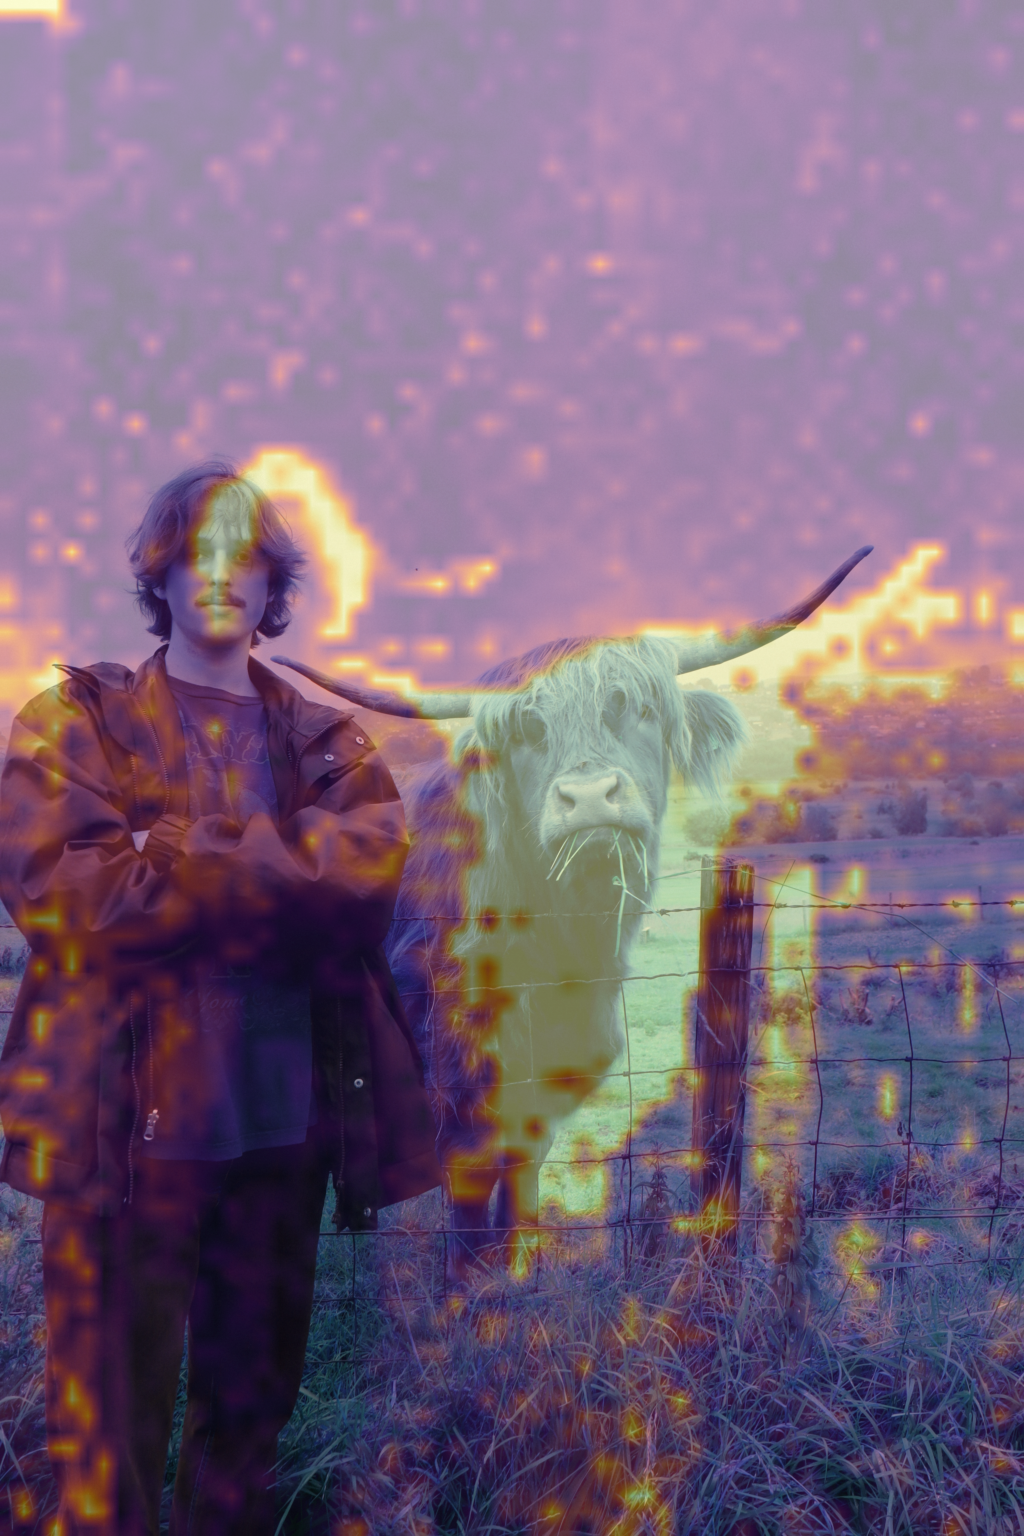
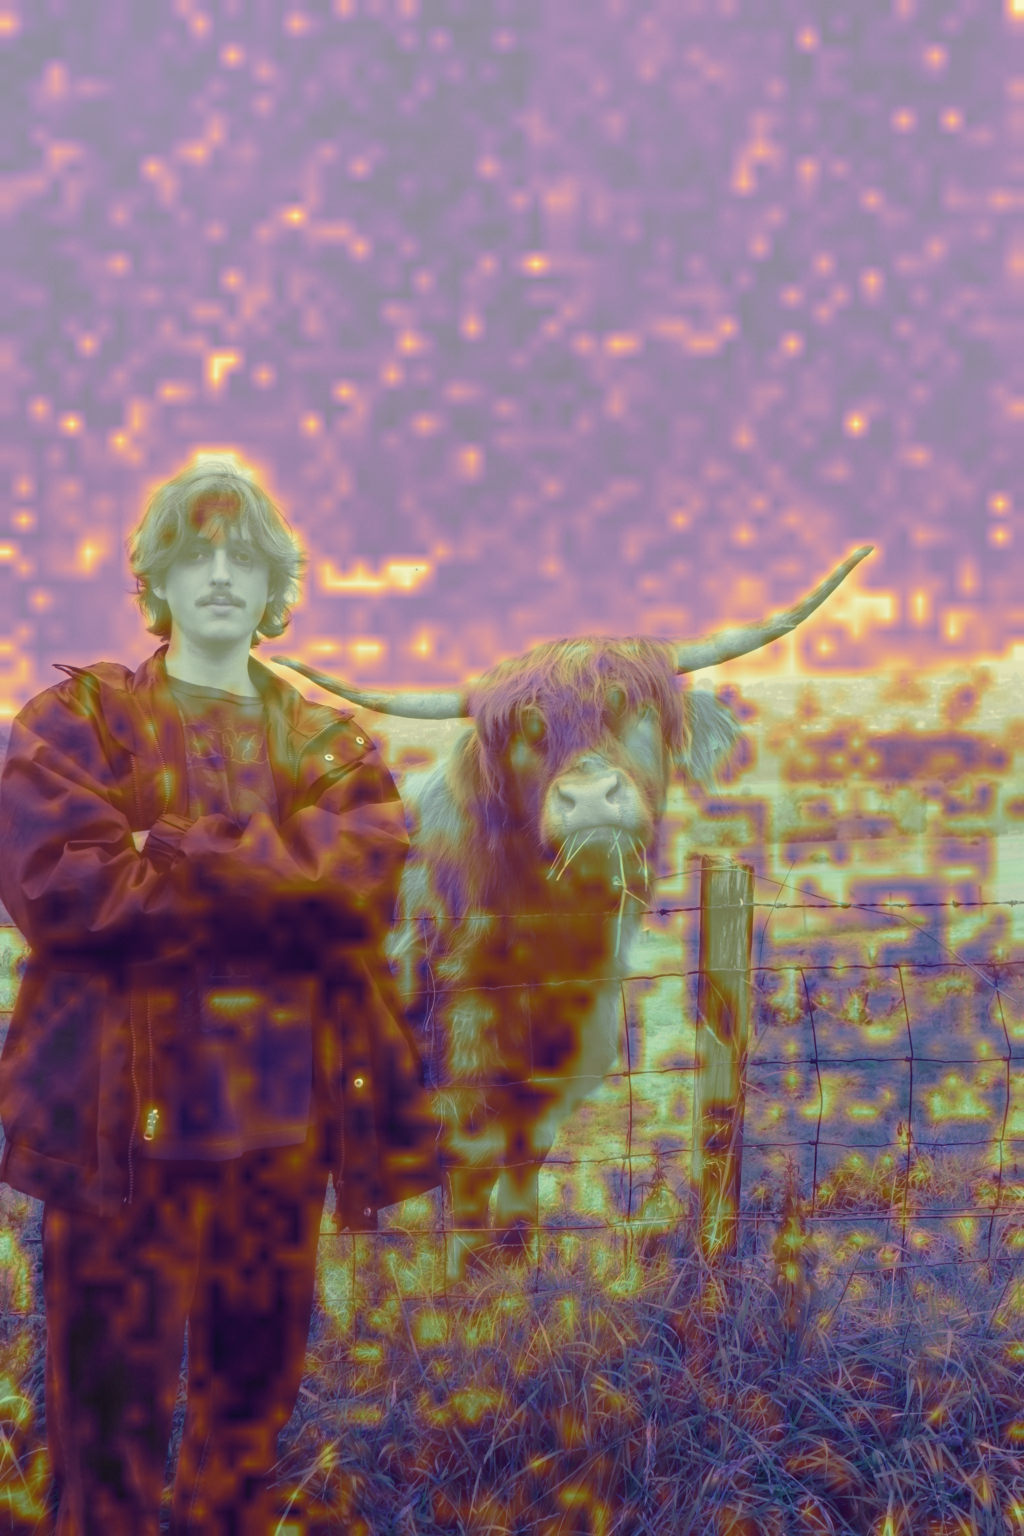
Fixed visual skew - caused by incorrect cls token register

diff --git a/extract_attention.py b/extract_attention.py
@@ -25,7 +25,7 @@ def get_cls_attention_map(
     attentions: torch.Tensor,
     grid_h: int,
     grid_w: int,
-    head: int = 4,
+    head: int = 5,
     gamma: float = 0.5,
     percentile_clip: float = 90.0
 ) -> np.ndarray:
@@ -50,11 +50,16 @@ def get_cls_attention_map(
         raise ValueError("`attentions` must be a non-empty list/tuple of attention tensors.")
 
     if head < 0 or head >= attentions[-1].shape[1]:
+        print("remember index starts at 0 you can not do 6 if available heads is 6")
         raise ValueError(f"Head index {head} out of range for available heads {attentions[-1].shape[1]}")
 
     # Select the last layer and chosen head
     attn = attentions[-1][0, head]  # (tokens, tokens)
-    cls_attn = attn[0, 1:]          # CLS -> all other tokens
+
+    ''' *IMPORTANT BUG FIX* DinoV3 has 4 reg tokens'''
+    NUM_REGISTER_TOKENS = 4  # DINOv3 specific
+
+    cls_attn = attn[0, 1 + NUM_REGISTER_TOKENS:]
 
     # Validate token count and trim extra special tokens
     num_patches = grid_h * grid_w
@@ -94,7 +99,9 @@ def overlay_attention(image: np.ndarray, attn_map: np.ndarray, alpha=0.45):
     Overlays attention heatmap on the original image.
     """
     attn_resized = cv2.resize(attn_map, (image.shape[1], image.shape[0]))
-    heatmap = cv2.applyColorMap(np.uint8(255 * attn_resized), cv2.COLORMAP_INFERNO)
+    heatmap = cv2.applyColorMap(np.uint8(255 * attn_resized), cv2.COLORMAP_INFERNO) # may swap colormap
+
+    #cv2 blends the heatmap with the orignal image (dst = alpha * src1 + beta * src2 + gamma)
     overlay = cv2.addWeighted(image, 1 - alpha, heatmap, alpha, 0)
     return overlay
 
